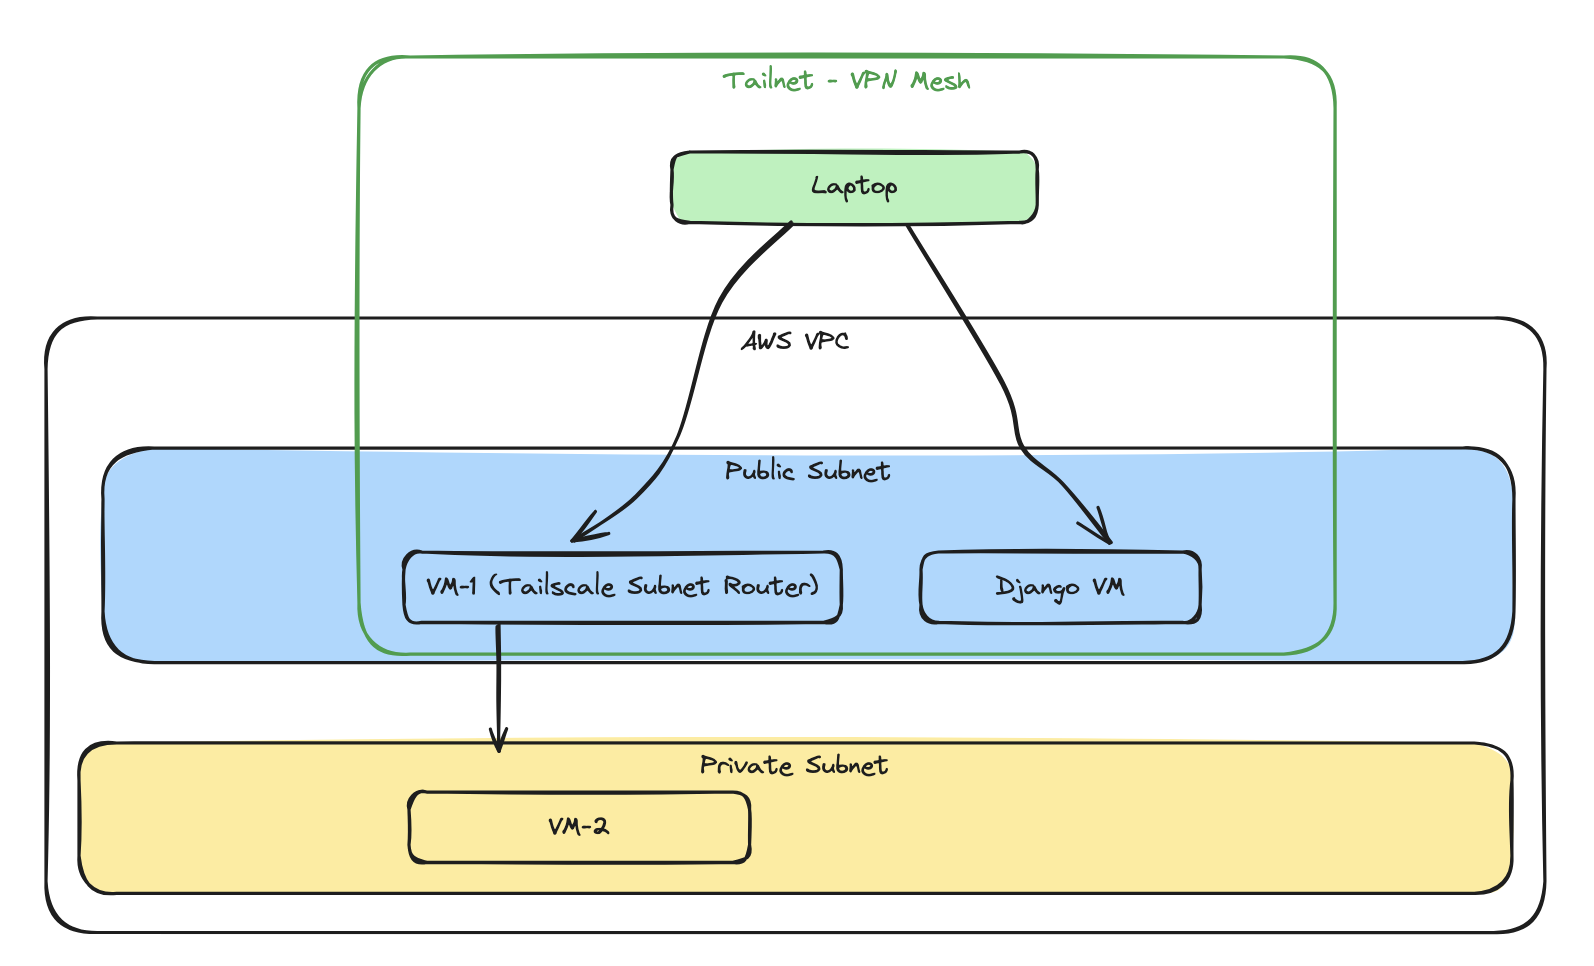
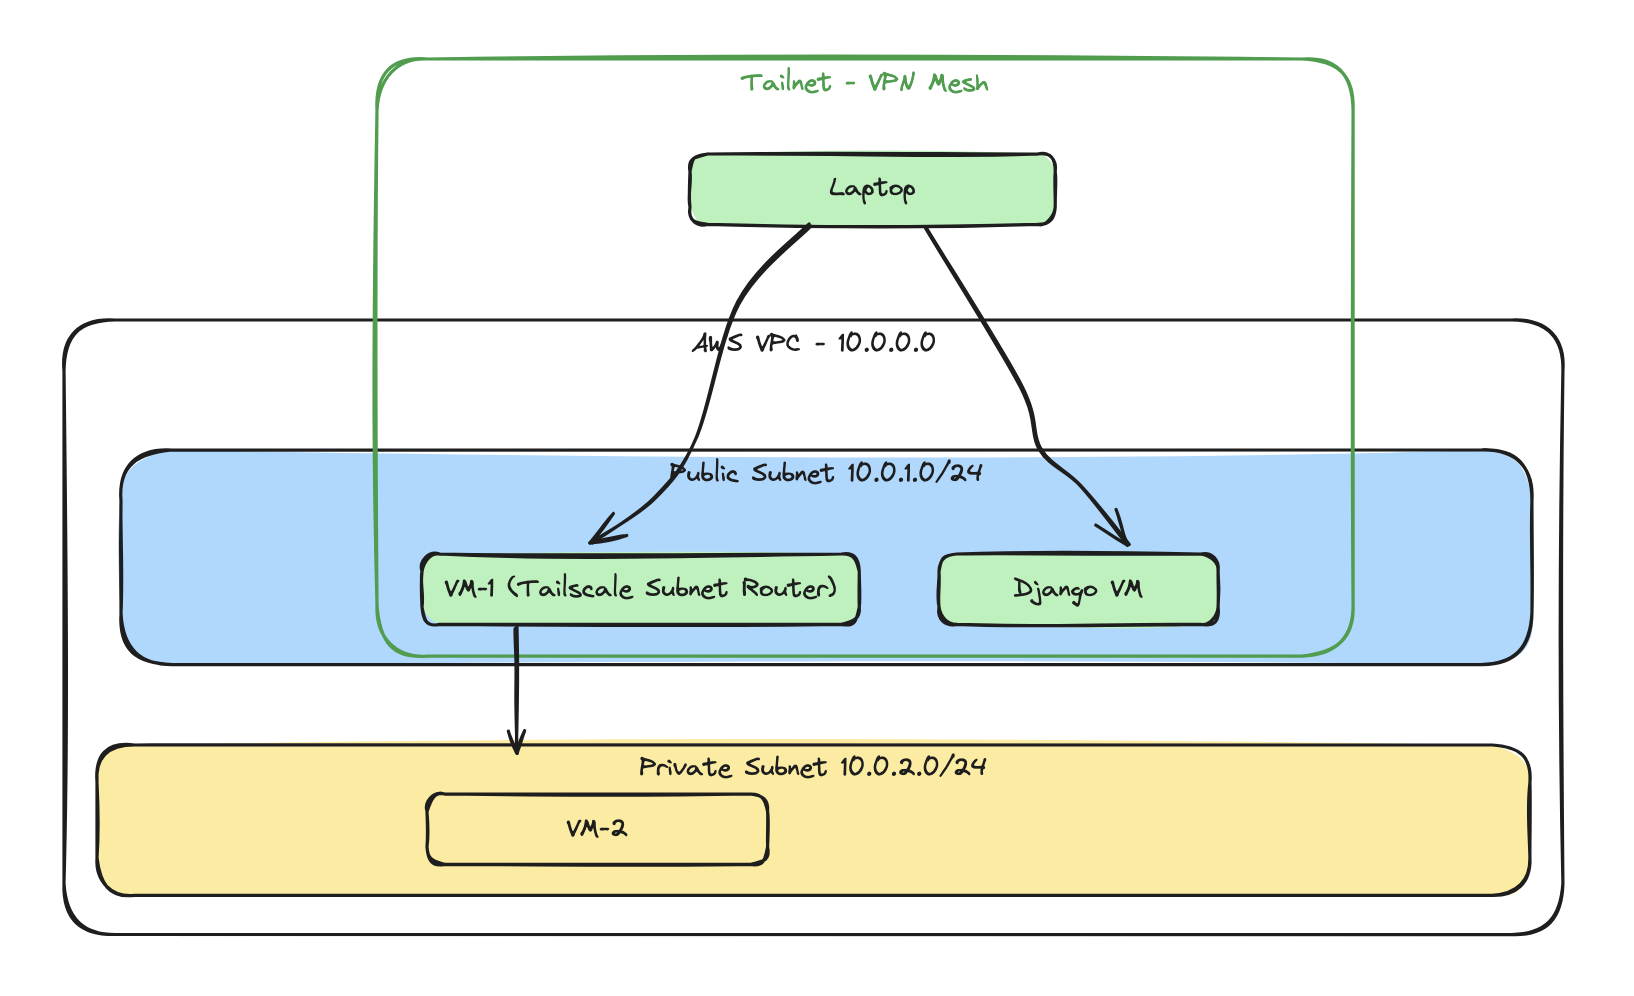
doc: yet more readme improvements

diff --git a/README.md b/README.md
@@ -1,18 +1,33 @@
 # Demo - Django Developer with Zero-Config VPN Access to AWS
 
 ## Project Objective
-### Demonstrate The Following Developer Use Case:
+### Demonstrating Modern Developer Workflows
 
-- Infrastructure as Code using Terraform to rapidly deploy a Django application with multiple EC2 instances within a new VPC in AWS. 
+This project showcases two powerful tools that streamline cloud development and access:
 
-- Automated Tailscale configuration to enable seamless developer access to the application despite restrictive VPC settings by using 3 Tailscale features:
-  - Tailnet (zero-config VPN for remote access)
-  - Subnet router (routes traffic between non-tailscale devices in the VPC and the tailnet)
-  - SSH (easy SSH access without managing keys)
+1. **Infrastructure as Code with Terraform**
+   - Rapidly deploy AWS infrastructure
+   - Automate creation of VPCs, subnets, and security groups
+   - Provision and configure multiple EC2 instances
 
+2. **Automated Setup of Secure Remote Access with Tailscale**
+   - Zero-configuration VPN (Tailnet) for secure remote access
+   - Subnet routing to connect VPC resources to your Tailnet
+   - Keyless SSH access to instances
+
+The combination demonstrates how developers can quickly deploy cloud infrastructure and securely access it without complex VPN setups or SSH key management.
 
 ## Project Architecture
-![Project Architecture](./images/architecture.png)
+<img src="./images/architecture.png" width="90%" alt="Project Architecture">
+
+## Project Components
+
+- Tailnet
+- VPC with public subnet (10.0.1.0/24) and private subnet (10.0.2.0/24)
+- EC2 instances
+  - vm1 in public subnet with Tailscale client and configured as a subnet router
+  - django vm in public subnet with Tailscale client
+  - vm2 in private subnet, no Tailscale client, reachable via vm1 subnet router
 
 ### AWS VPC Security
 
@@ -21,9 +36,9 @@
   - Restricted or no inbound traffic allowed to application servers
   - Need to access development/test environments through bastion hosts or VPNs
 
-- The private subnet has no direct internet connectivity (no NAT gateway) and can only communicate externally through the subnet router (vm1)
+- The private subnet 10.0.2.0/24 has no direct internet connectivity (no NAT gateway) and can only communicate externally through the subnet router (vm1)
 
-- The public subnet has no inbound traffic allowed and unrestricted outbound traffic through the Internet Gateway, so it can reach the Tailscale network
+- The public subnet 10.0.1.0/24 has no inbound traffic allowed and unrestricted outbound traffic through the Internet Gateway, so it can reach the Tailscale network
 
 ### Django Application
 
@@ -89,9 +104,12 @@
 
 - Confirm the VPC, Subnet, and EC2 instances were created in the AWS Console
 
-- Confirm vm1 and django-vm are visible in Tailscale > Machines
+- In Tailscale > Machines
+  - Confirm vm1 and the django vm are connected
+  - Click on vm1 and confirm the subnet router is enabled
+  - If subnet not enabled, click "review" and click the checkbox and save
 
-- Click on vm1 and confirm the subnet router is enabled
+    <img src="./images/review-subnet.png" width="200" alt="Review Subnet">
 
 ### Testing Remote Access From Local Machine
 
